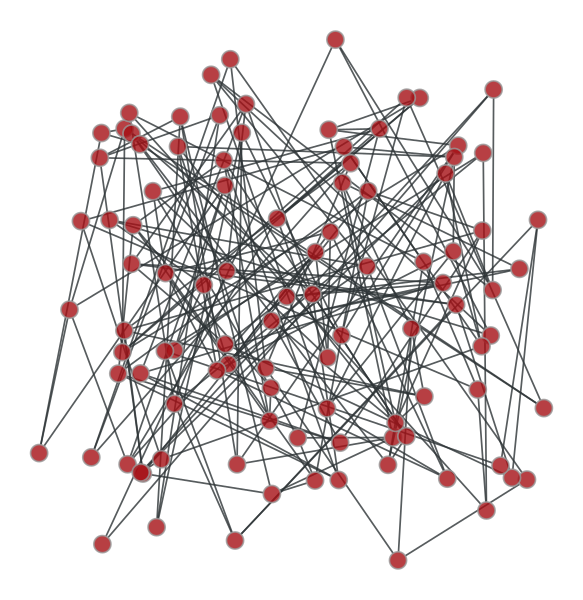
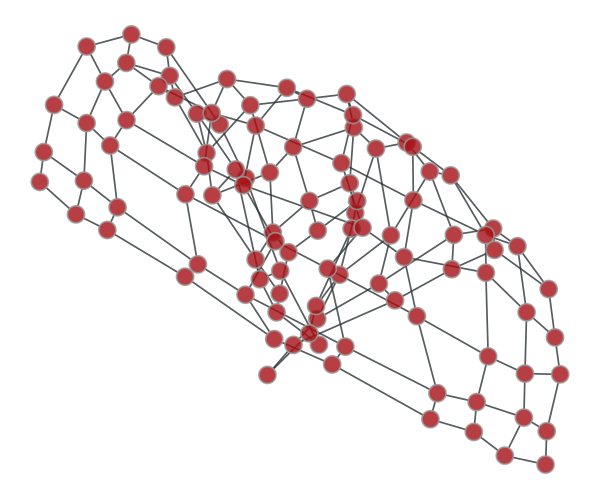
Updating

diff --git a/SGD_MDS2.py b/SGD_MDS2.py
@@ -64,16 +64,19 @@ def satisfy(v,u,di,we,step,N,t=1):
 
     m = np.zeros(v.shape)
 
-    wc = 1
+    wc = step * we
+    wc = wc if wc < 1 else 1
 
     pq = v-u
     mag = np.linalg.norm(pq)
 
-    stress = (mag-di) * (pq/mag)
-    stress *= we*step
+    stress = (pq * ((mag-di)/2)) / mag
+    stress *= wc
 
+    wc = step
+    wc = wc if wc<1 else 1
 
-    repulsion = -t*(pq/(mag **2)) * (1-we)
+    repulsion = -t*wc*(pq/(mag **2))
 
     m = (1/l_sum) * stress + (t/l_sum) * repulsion
 
@@ -138,7 +141,20 @@ def solve(X,w,d,schedule,indices,num_iter=15,epsilon=1e-3,debug=False,t=1):
 
     return X
 
+@jit(nopython=True)
+def calc_cost2(X,t,d,w):                 # Define a function
+    stress, l_sum = 0, 1+t
+    N = len(X)
 
+    #Stress
+    ss = (X * X).sum(axis=1)
+    diff = np.sqrt(ss.reshape((N, 1)) + ss.reshape((1, N)) - 2 * X.dot(X.T))
+    stress = np.sum( w * np.square(d-diff) )
+
+    #repulsion
+    r = -np.sum( np.log(diff) )
+
+    return (1/l_sum) * stress + (t/l_sum) * r
 
 @jit(nopython=True)
 def calc_cost(X,d,w,t):
@@ -148,7 +164,7 @@ def calc_cost(X,d,w,t):
             pq = X[i]-X[j]
             mag = norm(pq)
             near = pow(mag-d[i][j],2) if w[i][j] >= 1 else 0
-            far = -np.log(mag) if w[i][j] < 1 else 0
+            far = -np.log(mag)
             cost += (1/l_sum) * near + (t/l_sum) * far
     return cost
 
@@ -168,7 +184,7 @@ def debug_solve(X,w,d,schedule,indices,num_iter=15,epsilon=1e-3,debug=False,t=1)
 
     for count in range(num_iter):
         t = (1)/(count + 1)
-        t = 0.6 
+        t = 0.6
         for _ in range(20):
             max_change = 0
             for i,j in indices:
@@ -181,15 +197,15 @@ def debug_solve(X,w,d,schedule,indices,num_iter=15,epsilon=1e-3,debug=False,t=1)
                 break
 
         step = schedule[min(count,len(schedule)-1)]
-        step = 0.01
+        #step = 0.01
 
         shuffle(indices)
-        cost = calc_cost(X,d,w,t)
-        print(cost)
+        #cost = calc_cost2(X,d,w,t)
+        #print(cost)
 
-        if abs(prev_cost-cost) < epsilon:
-            break
-        prev_cost = cost
+        # if abs(prev_cost-cost) < epsilon:
+        #     break
+        # prev_cost = cost
 
 
         yield X.copy()

diff --git a/compare_graphs.py b/compare_graphs.py
@@ -110,7 +110,7 @@ def pajTOgt(filepath, directed = False, removeloops = True):
 
     return g
 
-import autograd.numpy as np  
+import autograd.numpy as np
 from autograd import grad
 
 
@@ -118,16 +118,48 @@ d = np.array( [
                 [0,1,np.sqrt(2)],
                 [1,0,1],
                 [np.sqrt(2),1,0]
-            ] )
-def tanh(x):                 # Define a function
+            ] , dtype='float64')
+def tanh(x,t):                 # Define a function
     stress = 0
     for i in range(len(x)):
         for j in range(i):
-            stress += pow(np.linalg.norm(x[i]-x[j]) - d[i][j],2)
+            stress += t*pow(np.linalg.norm(x[i]-x[j]) - d[i][j],2)
     return stress
 grad_tanh = grad(tanh)
 print(grad_tanh(np.array([
                         [0,2],
                         [1,1],
                         [1,0]
-                        ])))
+                        ]), 0.6))
+
+A = np.array([          [0,1],
+                        [1,1],
+                        [1,0]
+                        ],dtype='float64')
+
+def euclidean_var(X):
+    N = X.shape[0]
+    ss = (X * X).sum(axis=1)
+    return np.sqrt(ss.reshape((N, 1)) + ss.reshape((1, N)) - 2 * X.dot(X.T))
+
+w = np.ones(d.shape,dtype='float64')
+def stress(X,t):                 # Define a function
+    stress, l_sum = 0, 1+t
+    N = len(X)
+
+    #Stress
+    ss = (X * X).sum(axis=1)
+    diff = np.sqrt(ss.reshape((N, 1)) + ss.reshape((1, N)) - 2 * np.dot(X,X.T) )
+    stress = np.sum( w * np.square(d-diff) )
+    print(stress)
+
+    #repulsion
+    r = -np.sum( np.log(diff+1e-9) )
+
+    return (1/l_sum) * stress + (t/l_sum) * r
+
+
+grad_stress = grad(stress)
+
+print(stress(A,0.6) )
+print(grad_stress(A,0.6))

diff --git a/SGD_MDS_debug.py b/SGD_MDS_debug.py
@@ -218,7 +218,7 @@ class SGD_d:
             # self.w = set_w(self.d,k)
             self.w = w
         else:
-            self.w = np.array([[ 1 if i != j else 0 for i in range(self.n)]
+            self.w = np.array([[ 1 if self.d[i][j] == 1 else 0 for i in range(self.n)]
                         for j in range(self.n)])
 
         w_min = 1/pow(self.d_max,2)
@@ -236,23 +236,32 @@ class SGD_d:
     def solve(self,num_iter=15,debug=False,t=1):
         import autograd.numpy as np
         from autograd import grad
+        from sklearn.metrics import pairwise_distances
 
         d = self.d
         w = self.w
         X = self.X
 
-        def stress(x):                 # Define a function
-            stress = 0
-            for i in range(len(x)):
-                for j in range(i):
-                    stress += w[i][j] * pow(np.linalg.norm(x[i]-x[j]) - d[i][j],2) - np.log(np.linalg.norm(x[i]-x[j]))
-            return stress
+        def stress(X,t):                 # Define a function
+            stress, l_sum = 0, 1+t
+            N = len(X)
+
+            #Stress
+            ss = (X * X).sum(axis=1)
+            diff = np.sqrt(ss.reshape((N, 1)) + ss.reshape((1, N)) - 2 * X.dot(X.T))
+            stress = np.sum( w * np.square(d-diff) )
+
+            #repulsion
+            r = -np.sum( np.log(diff) )
+
+            return (1/l_sum) * stress + (t/l_sum) * r
 
         step = 0.01
         grad_stress= grad(stress)
         for _ in range(num_iter):
-            X -= step*grad_stress(X)
-            print(stress(X))
+            t = 0.6
+            X -= step*grad_stress(X,t)
+            print(stress(X,t))
             yield X.copy()
 
         return X.copy()

diff --git a/simple_driver.py b/simple_driver.py
@@ -120,17 +120,17 @@ def draw_hist(G,Xs,d,w):
     for count in range(len(Xs)-1):
         if count % 100 == 0 or count < 100:
             draw( G,Xs[count],output="drawings/update/test_{}.png".format(count) )
-            # NP.append(get_neighborhood(Xs[count],d))
-            # cost.append( calc_cost( Xs[count], d, w, 0.6))
+            NP.append(get_neighborhood(Xs[count],d))
+            cost.append( calc_cost( Xs[count], d, w, 0.6))
 
 
 
-    import matplotlib.pyplot as plt
-    plt.plot(np.arange(len(NP)),NP)
-    plt.show()
-    plt.clf()
-    plt.plot(np.arange(len(cost)),cost)
-    plt.show()
+    # import matplotlib.pyplot as plt
+    # plt.plot(np.arange(len(NP)),NP)
+    # plt.show()
+    # plt.clf()
+    # plt.plot(np.arange(len(cost)),cost)
+    # plt.show()
 
 
 
@@ -139,7 +139,7 @@ def drive(graph,hist=False):
     d = distance_matrix.get_distance_matrix(G,'spdm',normalize=False)
     d_norm = distance_matrix.get_distance_matrix(G,'spdm',normalize=True)
 
-    Xs,w = layout(G,d,d_norm,debug=True, k=2, a=5)
+    Xs,w = layout(G,d,d_norm,debug=True, k=3, a=1)
     if hist:
         draw_hist(G,Xs,d,w)
     else:
@@ -152,7 +152,7 @@ def drive_new(graph,hist=False):
 
     from SGD_MDS_debug import SGD_d
     Y = SGD_d(d)
-    X = Y.solve()
+    X = Y.solve(30)
     X = [x for x in X]
     if hist:
         draw_hist(G,X,1,1)
@@ -160,4 +160,4 @@ def drive_new(graph,hist=False):
         draw(G,X)
 
 
-drive_new('10square',hist=True)
+drive('10square',hist=True)

diff --git a/new_driver.py b/new_driver.py
@@ -121,4 +121,4 @@ def find_opts(G_list):
         print("Optimal k is {} and optimal a is {}".format(k,a))
         print()
 
-find_opts([gt.lattice([i,i]) for i in range(5,15)])
+find_opts([gt.lattice([i,i]) for i in range(5,6)])
